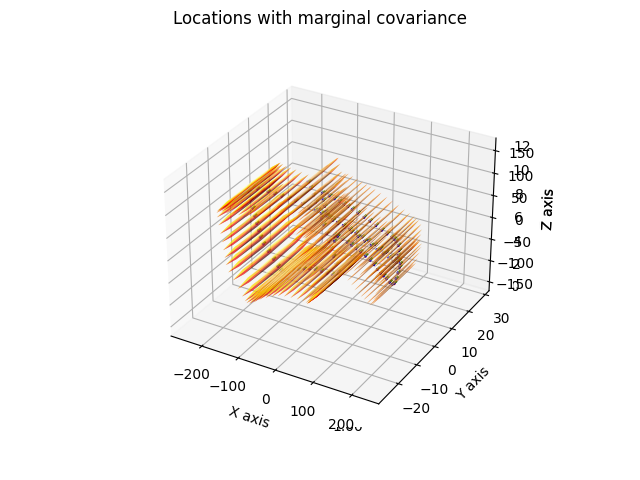
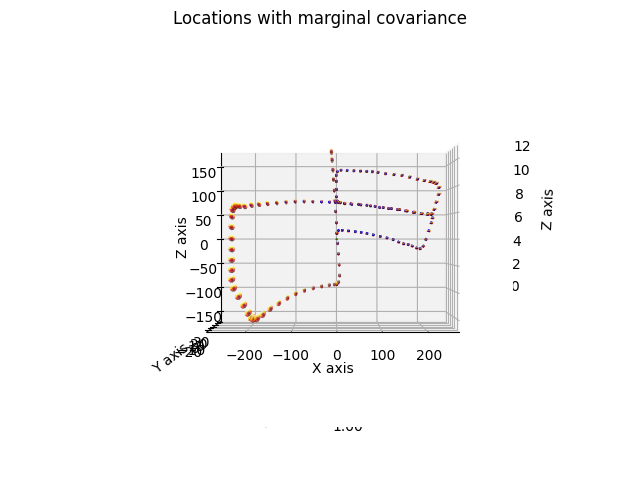
ex6 - finish all

diff --git a/VAN_ex/code/ex6.py b/VAN_ex/code/ex6.py
@@ -1,90 +1,29 @@
 import os
 
-import numpy as np
 from gtsam.utils import plot
-from matplotlib import pyplot as plt
 
 from VAN_ex.code import utils
 from VAN_ex.code.Bundle.BundleAdjustment import BundleAdjustment
 from VAN_ex.code.DB.DataBase import DataBase
 from VAN_ex.code.PoseGraph import PoseGraph
-from VAN_ex.code.ex4 import crop_img
 
 OUTPUT_DIR = 'results/ex6/'
 os.makedirs(OUTPUT_DIR, exist_ok=True)
 
-def show_feature_track(track, db):
-    """
-    Choose random track in len of num_frames at least, create and save an image, that shows the feature
-    the first 10 frames of the track.
-    :param db: database
-    :param num_frames: track length at least to choose
-    """
-    fig, grid = plt.subplots(10, 2)
-    fig.set_figwidth(4)
-    fig.set_figheight(12)
-    fig.suptitle(f"Track {track.get_id()}, with length of {track.get_track_len()} frames")
-    plt.rcParams["font.size"] = "10"
-    plt.subplots_adjust(wspace=-0.55, hspace=0.1)
-    grid[0, 0].set_title("Left")
-    grid[0, 1].set_title("Right")
-    i = 0
-    for frame_id, kp_idx in track.get_frames_dict().items():
-        pixel_left, pixel_right = db.get_frame_obj(frame_id).get_feature_pixels(kp_idx)
-        img_left, img_right = utils.read_images(frame_id)
-        img_left, x_left, y_left = crop_img(img_left, pixel_left[0], pixel_left[1])
-        img_right, x_right, y_right = crop_img(img_right, pixel_right[0], pixel_right[1])
-        grid[i, 0].axes.xaxis.set_visible(False)
-        grid[i, 0].axes.yaxis.set_label_text(f"frame: {frame_id}")
-        grid[i, 0].set_yticklabels([])
-        grid[i, 0].imshow(img_left, cmap="gray")
-        grid[i, 0].scatter(x_left, y_left, s=10, c="r")
-        grid[i, 1].axes.xaxis.set_visible(False)
-        grid[i, 1].imshow(img_right, cmap="gray")
-        grid[i, 1].scatter(x_right, y_right, s=10, c="r")
-        grid[i, 1].set_yticklabels([])
-        i = i + 1
-        if i == 10:
-            break
-    fig.savefig(f'{OUTPUT_DIR}track.png')
 
 def ex6_run():
     db = DataBase()
     db.read_database(utils.DB_PATH)
 
-    # track = db.get_track_obj(2138)
-    # print(track.get_frames_dict())
-    # show_feature_track(track, db)
-
-
     bundle_adjustment = BundleAdjustment(2560, 20, db)
     bundle_adjustment.optimize_all_windows()
 
+    q6_1(bundle_adjustment)
 
-    first_window = bundle_adjustment.get_first_window()
-    marginals = first_window.get_marginals()
-    # print(marginals)
-    result = first_window.get_current_values()
-    plot.plot_trajectory(0, result, marginals=marginals, scale=1, title="Covariance poses for first bundle",
-                         save_file=f"{OUTPUT_DIR}Poses rel_covs.png"
-                         # , d2_view=False
-                         ) #todo: fix graph
+    q6_2(bundle_adjustment)
 
-    first_camera = first_window.get_frame_pose3(first_window.get_first_keyframe_id())
-    second_camera = first_window.get_frame_pose3(first_window.get_last_keyframe_id())
-    relative_pose = first_camera.between(second_camera)
 
-    print("Relative pose between first two keyframes:")
-    print(first_window.get_frame_pose3(first_window.get_last_keyframe_id()))
-    print("relative pose - with between method")
-    print(relative_pose)
-    print("Covariance:")
-    print(first_window.get_covariance())
-
-    # 6.2
-    # track = db.get_track_obj(350160)
-    # show_feature_track(track, db)
-
+def q6_2(bundle_adjustment):
     pose_graph = PoseGraph(bundle_adjustment)
     global_poses = pose_graph.get_global_keyframes_poses()
     locations = BundleAdjustment.from_poses_to_locations(global_poses)
@@ -99,15 +38,31 @@ def ex6_run():
                             "Pose Graph Localization - After Optimization")
     print("Factor error BEFORE optimization: ", factor_error_before)
     print("Factor error AFTER optimization: ", factor_error_after)
-
     marginals = pose_graph.get_marginals()
-    # print(marginals)
     result = pose_graph.get_current_values()
     plot.plot_trajectory(0, result, marginals=marginals, scale=1, title="Locations with marginal covariance",
                          save_file=f"{OUTPUT_DIR}locatization with covariance.png"
-                         # , d2_view=False
-                         ) #todo: fix graph
+                         , d2_view=True
+                         )
 
+
+def q6_1(bundle_adjustment):
+    first_window = bundle_adjustment.get_first_window()
+    marginals = first_window.get_marginals()
+    result = first_window.get_current_values()
+    plot.plot_trajectory(0, result, marginals=marginals, scale=1, title="Covariance poses for first bundle",
+                         save_file=f"{OUTPUT_DIR}Poses rel_covs.png"
+                         , d2_view=False
+                         )
+    first_camera = first_window.get_frame_pose3(first_window.get_first_keyframe_id())
+    second_camera = first_window.get_frame_pose3(first_window.get_last_keyframe_id())
+    relative_pose = first_camera.between(second_camera)
+    print("Relative pose between first two keyframes:")
+    print(first_window.get_frame_pose3(first_window.get_last_keyframe_id()))
+    print("relative pose - with between method")
+    print(relative_pose)
+    print("Covariance:")
+    print(first_window.get_covariance())
 
 
 if __name__ == '__main__':
